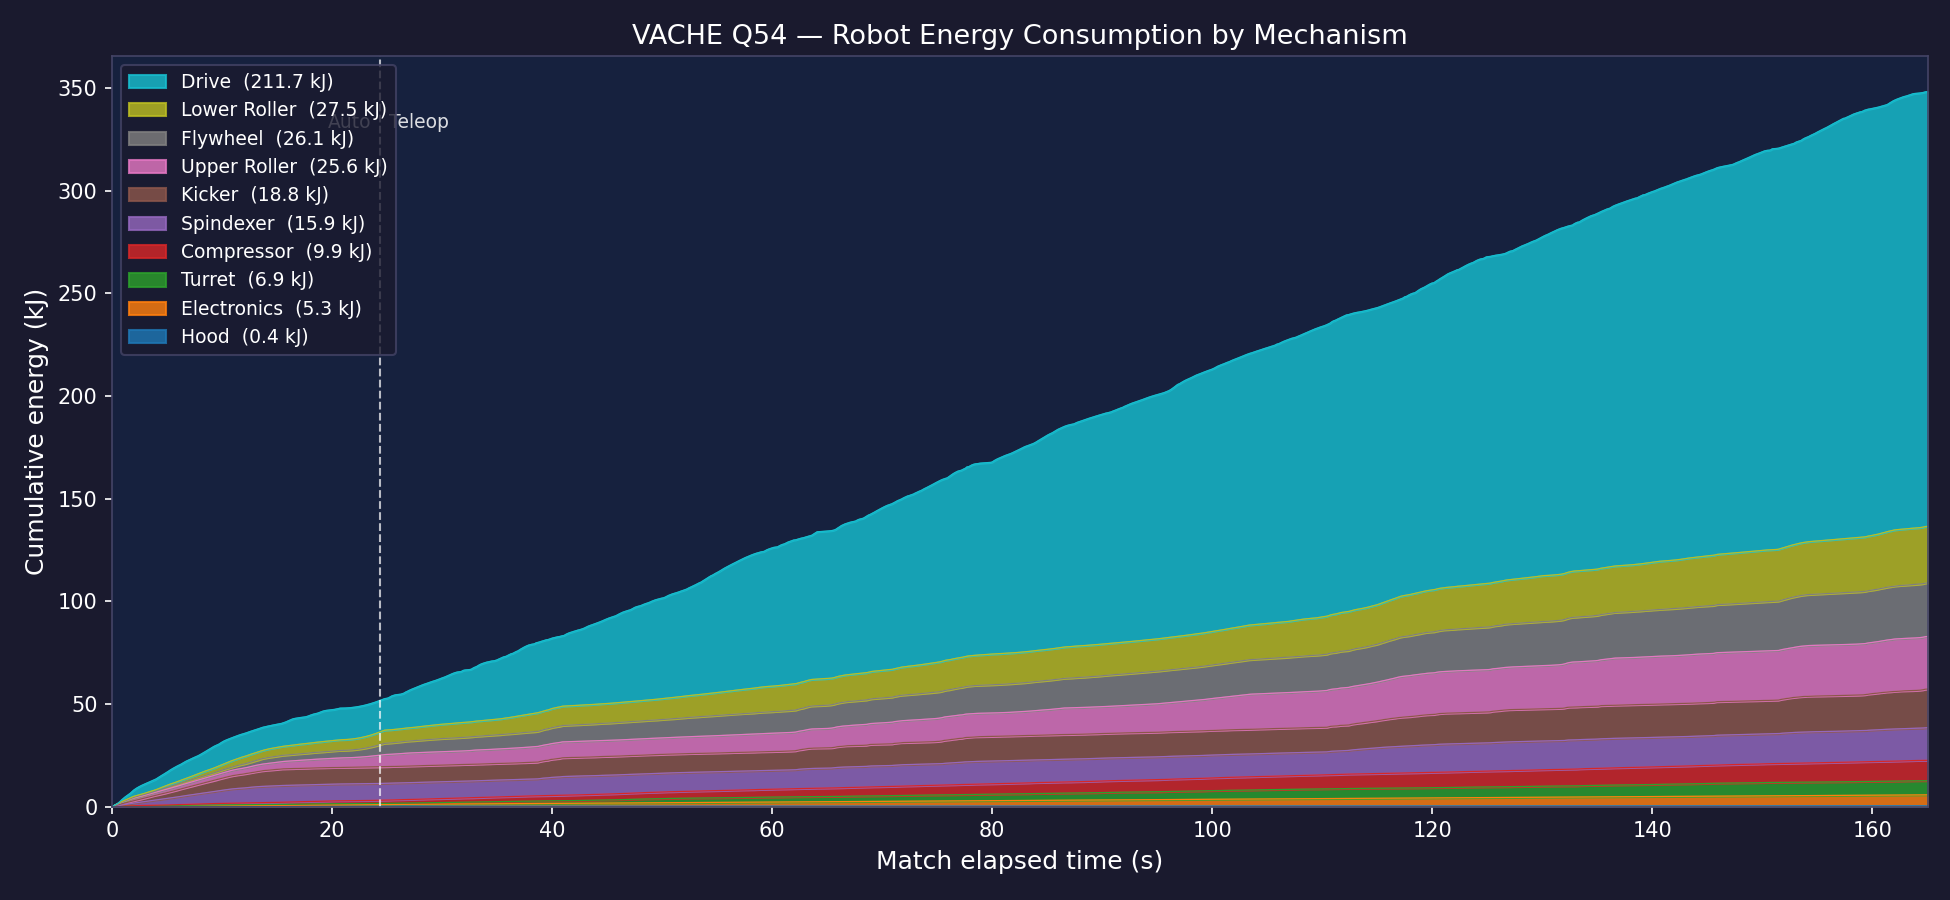
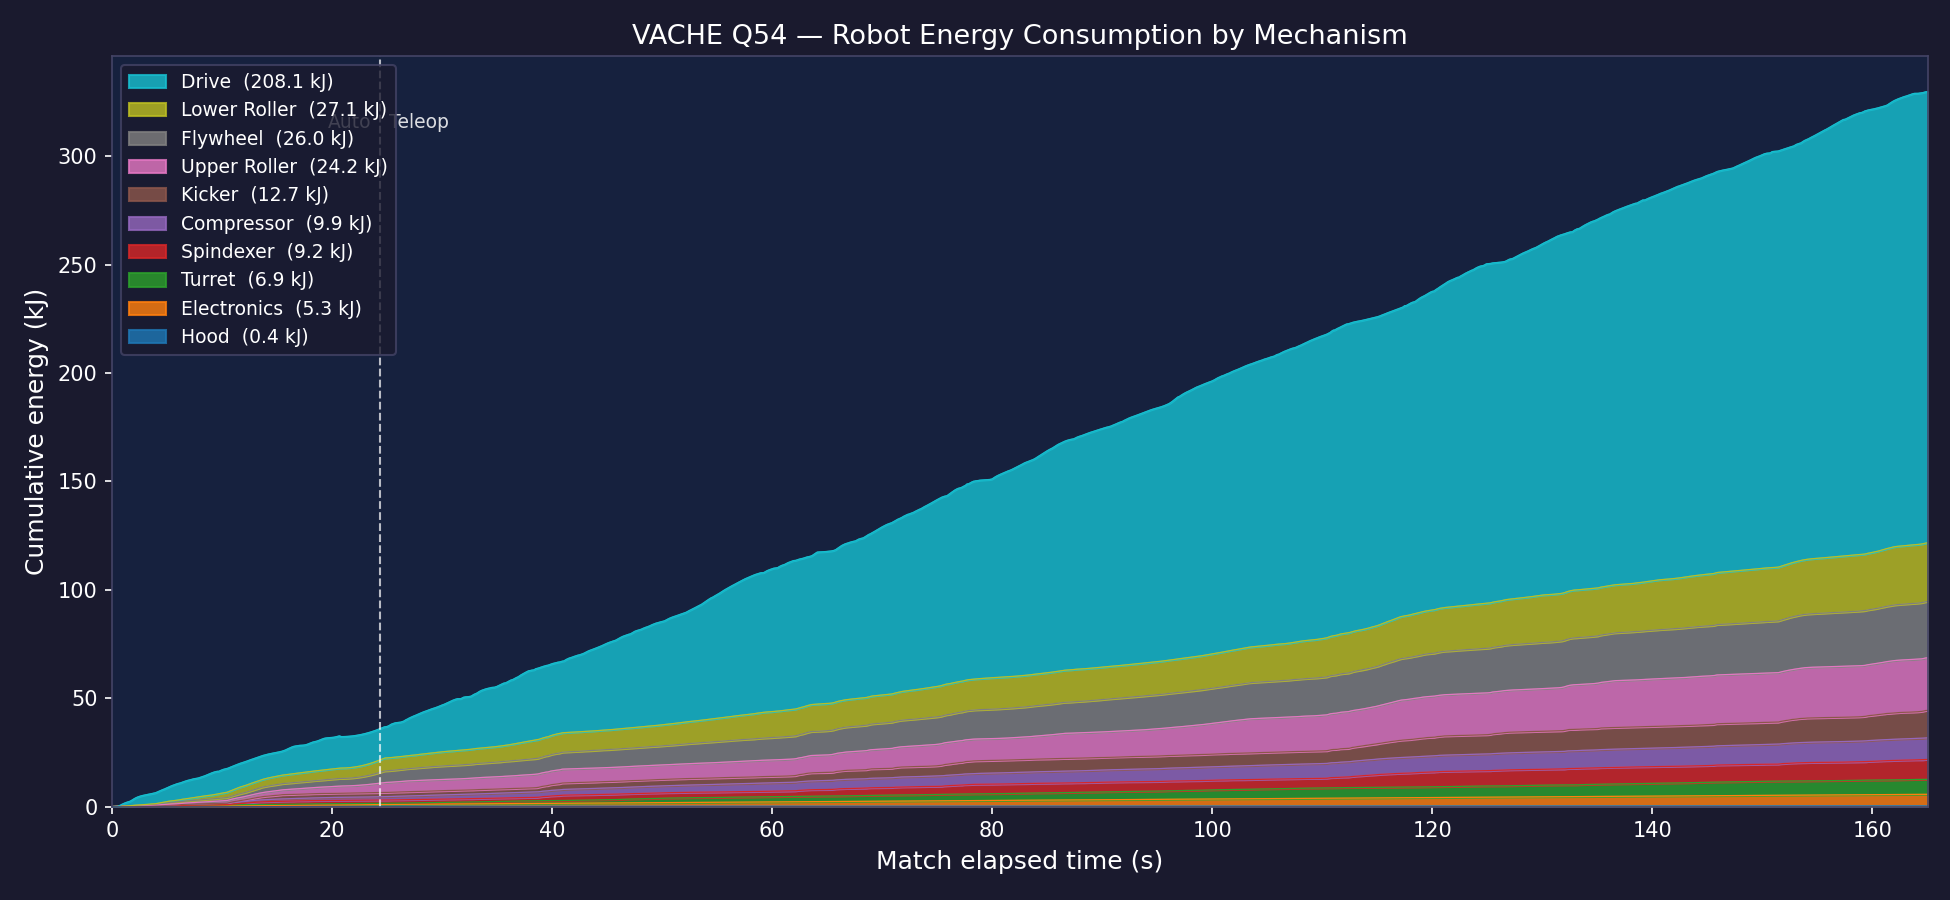
Fix energy analysis: AKit delta-log overcounting and Kraken regen (#175)
* fix energy analysis overcounting idle motors due to AKit delta logging

interp_entry used left=vs[0] extrapolation, which holds the first logged
current value backwards in time. For motors that are idle at exactly 0 A
(spindexer, kicker pre-shoot), no log entries exist until the motor fires —
so the first in-window sample was mid-shoot (~60 A), falsely inflating energy
for the entire pre-activation window.

Fix: after interpolation, zero out current values before the first actual
logged timestamp within the match analysis window. Affects process_match()
in energy_analysis.py and the standalone energy_feeder_auto_q54.py script.

Corrected values (avg across 14 matches):
  Kicker:    22.4 -> 16.7 kJ
  Spindexer: 19.0 -> 11.9 kJ
  Total:    326.1 -> 311.5 kJ

Also adds energy_feeder_auto_q54.py — focused spindexer+kicker auto-only
plot for Q54, and updates writeup tables and observations accordingly.

* account for Kraken regenerative braking in energy analysis

Remove supply current floor (np.maximum(..., 0)) for Kraken-powered
mechanism groups (Drive, Flywheel, Lower Roller, Upper Roller).
TalonFX/Phoenix 6 reports negative supply current during regen;
clamping it to zero was silently discarding ~3.2–3.6 kJ of recovery
per match (~1.8% of drive energy).

Add KRAKEN_GROUPS constant to control which groups integrate without
clamping. Non-Kraken groups (Spindexer, Kicker, Turret, Hood,
Compressor) and PDH-sourced Electronics keep clamp=True since their
[…]

diff --git a/scripts/energy_feeder_auto_q54.py b/scripts/energy_feeder_auto_q54.py
@@ -1,0 +1,113 @@
+#!/usr/bin/env python3
+"""
+Spindexer + Kicker cumulative energy — VACHE Q54 autonomous only.
+Reuses read_log / cumulative_energy_J from energy_analysis.py.
+"""
+
+import sys
+from pathlib import Path
+
+sys.path.insert(0, str(Path(__file__).parent))
+from energy_analysis import read_log, interp_entry, cumulative_energy_J
+
+import numpy as np
+import matplotlib.pyplot as plt
+import matplotlib.ticker as ticker
+
+LOG_PATH   = r"C:\Users\natel\wpilib\logs\VACHE\session_46\akit_26-03-22_14-57-55_vache_q54.wpilog"
+AUTO_START = 150.011873
+AUTO_END   = 174.650002   # autonomous end == teleop start
+
+GRID_DT   = 0.02
+VOLTAGE_ENTRY = "/RealOutputs/PDH/Voltage"
+NOMINAL_V     = 12.0
+
+MECHANISMS = {
+    "Spindexer": "/Spindexer/CurrentAmps",
+    "Kicker":    "/Kicker/CurrentAmps",
+}
+
+COLORS = {"Spindexer": "#4e9af1", "Kicker": "#f1884e"}
+
+
+def main():
+    scalars, _ = read_log(LOG_PATH)
+
+    t_abs = np.arange(AUTO_START, AUTO_END + GRID_DT, GRID_DT)
+    t_elapsed = t_abs - AUTO_START                  # 0 → ~24.6 s
+
+    voltage = interp_entry(scalars, VOLTAGE_ENTRY, t_abs)
+    if voltage.max() < 1.0:
+        voltage = np.full_like(t_abs, NOMINAL_V)
+
+    energies = {}
+    for name, entry in MECHANISMS.items():
+        current = interp_entry(scalars, entry, t_abs)
+        # AKit delta-logs current only on value change. Motors idle at exactly 0 A
+        # produce no log entries, so the first sample in our window is non-zero
+        # (mid-shoot). interp_entry extrapolates that value back to t=0, falsely
+        # accumulating energy during the pre-shoot idle window.
+        # Fix: find the first timestamp *within this analysis window* and zero out
+        # everything before it.
+        if entry in scalars:
+            ts_all = scalars[entry][0]
+            in_window = ts_all[(ts_all >= AUTO_START - 1.0) & (ts_all <= AUTO_END + 1.0)]
+            if len(in_window) > 0:
+                current[t_abs < in_window[0]] = 0.0
+        energies[name] = cumulative_energy_J(t_abs, current, voltage, clamp=True) / 1000.0   # → kJ
+
+    # ── print summary ──────────────────────────────────────────────────────────
+    print("\nQ54 autonomous energy (spindexer + kicker):")
+    total = sum(e[-1] for e in energies.values())
+    for name, e in energies.items():
+        print(f"  {name:12s}  {e[-1]:.2f} kJ  ({100*e[-1]/total:.1f}%)")
+    print(f"  {'TOTAL':12s}  {total:.2f} kJ")
+
+    # ── plot ───────────────────────────────────────────────────────────────────
+    fig, ax = plt.subplots(figsize=(10, 5))
+    fig.patch.set_facecolor("#1a1a2e")
+    ax.set_facecolor("#16213e")
+
+    stack = np.zeros_like(t_elapsed)
+    for name in ["Spindexer", "Kicker"]:
+        top = stack + energies[name]
+        lbl = f"{name}  ({energies[name][-1]:.2f} kJ)"
+        ax.fill_between(t_elapsed, stack, top, color=COLORS[name], alpha=0.82, label=lbl)
+        ax.plot(t_elapsed, top, color=COLORS[name], linewidth=0.7)
+        stack = top
+
+    # annotate shoot window (feeder command starts at 160.321 s)
+    shoot_start = 160.321481 - AUTO_START   # ≈ 10.3 s elapsed
+    shoot_end   = 165.5      - AUTO_START   # ≈ 15.5 s elapsed (current drops to idle)
+    ax.axvspan(shoot_start, shoot_end, color="white", alpha=0.07, label="Shoot window")
+    ax.axvline(shoot_start, color="white", linestyle="--", linewidth=0.9, alpha=0.6)
+    ax.axvline(shoot_end,   color="white", linestyle="--", linewidth=0.9, alpha=0.6)
+    y_top = stack[-1]
+    ax.text(shoot_start + 0.2, y_top * 0.92, "shoot\nwindow",
+            color="white", fontsize=8, va="top", alpha=0.75)
+
+    ax.set_xlabel("Autonomous elapsed time (s)", color="white", fontsize=12)
+    ax.set_ylabel("Cumulative energy (kJ)",      color="white", fontsize=12)
+    ax.set_title("VACHE Q54 — Spindexer + Kicker Energy (Autonomous only)",
+                 color="white", fontsize=13)
+    ax.tick_params(colors="white")
+    ax.set_xlim(0, t_elapsed[-1])
+    ax.set_ylim(bottom=0)
+    for spine in ax.spines.values():
+        spine.set_edgecolor("#444466")
+    ax.yaxis.set_major_formatter(ticker.FuncFormatter(lambda x, _: f"{x:.2f}"))
+
+    handles, labels = ax.get_legend_handles_labels()
+    ax.legend(handles[::-1], labels[::-1], loc="upper left", fontsize=10,
+              facecolor="#1a1a2e", edgecolor="#444466", labelcolor="white")
+
+    plt.tight_layout()
+    out = Path(__file__).parent.parent / "doc" / "assets" / "energy_feeder_auto_q54.png"
+    out.parent.mkdir(parents=True, exist_ok=True)
+    plt.savefig(out, dpi=150, facecolor=fig.get_facecolor())
+    print(f"\nSaved -> {out}")
+    plt.show()
+
+
+if __name__ == "__main__":
+    main()

diff --git a/scripts/energy_analysis.py b/scripts/energy_analysis.py
@@ -98,6 +98,11 @@ MECHANISM_GROUPS = {
     "Electronics": [],  # OrangePis/LEDs + RIO/radio/CANivore/coprocessors — sourced from PDH channels
 }
 
+# Mechanisms using Krakens (TalonFX/Phoenix 6) whose supply current can go
+# negative during regenerative braking.  Energy is integrated without clamping
+# for these groups so regen recovery reduces the net energy total.
+KRAKEN_GROUPS = {"Drive", "Flywheel", "Lower Roller", "Upper Roller"}
+
 # ---------------------------------------------------------------------------
 # Log reader
 
@@ -193,10 +198,15 @@ def interp_entry(
 
 
 def cumulative_energy_J(
-    t_abs: np.ndarray, current: np.ndarray, voltage: np.ndarray
+    t_abs: np.ndarray, current: np.ndarray, voltage: np.ndarray,
+    clamp: bool = False,
 ) -> np.ndarray:
-    """Trapezoid-integrate P=V*I; supply current clamped >=0. Returns J array."""
-    power = np.maximum(current, 0.0) * voltage
+    """Trapezoid-integrate P=V*I. Returns J array.
+    clamp=True: floor supply current at 0 (use for non-regen sources like PDH channels).
+    clamp=False (default): allow negative current so regen braking reduces net energy.
+    """
+    i = np.maximum(current, 0.0) if clamp else current
+    power = i * voltage
     dE    = 0.5 * (power[:-1] + power[1:]) * np.diff(t_abs)
     return np.concatenate([[0.0], np.cumsum(dE)])
 
@@ -221,8 +231,8 @@ def process_match(
 
     match_duration = match_end - auto_start   # seconds
 
-    def to_common(current: np.ndarray) -> np.ndarray:
-        energy_kJ = cumulative_energy_J(t_abs, current, voltage) / 1000.0
+    def to_common(current: np.ndarray, clamp: bool = False) -> np.ndarray:
+        energy_kJ = cumulative_energy_J(t_abs, current, voltage, clamp=clamp) / 1000.0
         t_elapsed  = np.linspace(0.0, match_duration, len(t_abs))
         return np.interp(COMMON_GRID, t_elapsed, energy_kJ,
                          left=0.0, right=energy_kJ[-1])
@@ -239,9 +249,21 @@ def process_match(
         found = False
         for entry in entries:
             if entry in scalars:
-                total_current += interp_entry(scalars, entry, t_abs)
+                current = interp_entry(scalars, entry, t_abs)
+                # AKit delta-logs current only on value change. Motors idle at
+                # exactly 0 A produce no log entries, so the first sample in
+                # our window may be non-zero (e.g. mid-shoot for spindexer/
+                # kicker). interp_entry extrapolates that value back to t=0,
+                # falsely accumulating energy. Zero out everything before the
+                # first actual logged timestamp within this match window.
+                ts_all = scalars[entry][0]
+                in_window = ts_all[(ts_all >= auto_start - 1.0) & (ts_all <= match_end + 1.0)]
+                if len(in_window) > 0:
+                    current[t_abs < in_window[0]] = 0.0
+                total_current += current
                 found = True
-        result[group] = to_common(total_current) if found else np.zeros_like(COMMON_GRID)
+        clamp = group not in KRAKEN_GROUPS
+        result[group] = to_common(total_current, clamp=clamp) if found else np.zeros_like(COMMON_GRID)
 
     # PDH-sourced overhead group (climber + RIO/radio/coprocessors/LEDs)
     electronics_i = extract_pdh_channel(arrays, PDH_ELECTRONICS_CHANNELS, t_abs)

diff --git a/doc/energy_analysis_writeup.md b/doc/energy_analysis_writeup.md
@@ -14,16 +14,17 @@ exist for those loads.
 
 | Mechanism | Energy | Share |
 |-----------|-------:|------:|
-| Drive | 211.7 kJ | 61.7% |
-| Lower Roller | 27.5 kJ | 8.0% |
-| Flywheel | 26.1 kJ | 7.6% |
-| Upper Roller | 25.6 kJ | 7.5% |
-| Kicker | 18.8 kJ | 5.5% |
-| Spindexer | 15.9 kJ | 4.6% |
-| Compressor | 9.9 kJ | 2.9% |
-| Turret | 6.9 kJ | 2.0% |
+| Drive | 208.1 kJ | 63.1% |
+| Lower Roller | 27.1 kJ | 8.2% |
+| Flywheel | 26.0 kJ | 7.9% |
+| Upper Roller | 24.2 kJ | 7.3% |
+| Kicker | 12.7 kJ | 3.8% |
+| Compressor | 9.9 kJ | 3.0% |
+| Spindexer | 9.2 kJ | 2.8% |
+| Turret | 6.9 kJ | 2.1% |
+| Electronics | 5.3 kJ | 1.6% |
 | Hood | 0.4 kJ | 0.1% |
-| **Total** | **342.8 kJ** | |
+| **Total** | **329.7 kJ** | |
 
 Q54 was a high-energy match — drive consumption was notably higher than the
 event average, consistent with aggressive teleop movement.
@@ -39,35 +40,37 @@ autonomous enable; curves averaged on a common 165 s grid.
 
 | Mechanism | Avg Energy | Share |
 |-----------|----------:|------:|
-| Drive | 180.6 kJ | 55.4% |
-| Flywheel | 30.4 kJ | 9.3% |
-| Lower Roller | 26.9 kJ | 8.3% |
-| Upper Roller | 24.3 kJ | 7.4% |
-| Kicker | 22.4 kJ | 6.9% |
-| Spindexer | 19.0 kJ | 5.8% |
-| Compressor | 10.1 kJ | 3.1% |
-| Turret | 6.5 kJ | 2.0% |
-| Electronics | 5.2 kJ | 1.6% |
+| Drive | 177.4 kJ | 57.6% |
+| Flywheel | 30.2 kJ | 9.8% |
+| Lower Roller | 26.2 kJ | 8.5% |
+| Upper Roller | 23.6 kJ | 7.7% |
+| Kicker | 16.7 kJ | 5.4% |
+| Spindexer | 11.9 kJ | 3.9% |
+| Compressor | 10.1 kJ | 3.3% |
+| Turret | 6.4 kJ | 2.1% |
+| Electronics | 5.2 kJ | 1.7% |
 | Hood | 0.5 kJ | 0.2% |
-| **Total** | **326.1 kJ** | |
+| **Total** | **308.1 kJ** | |
 
 ---
 
 ## Key Observations
 
-**Drive dominates.** At 55–62% of total energy, the drivetrain is by far the
+**Drive dominates.** At 57–63% of total energy, the drivetrain is by far the
 largest consumer. All growth is approximately linear, indicating sustained
-driving throughout both auto and teleop with no extended idle periods.
+driving throughout both auto and teleop with no extended idle periods. Kraken
+regenerative braking recovers ~3.2–3.6 kJ per match (~1.8% of drive energy),
+reducing net drive consumption slightly relative to gross current draw.
 
 **Shooter system is the second-largest group.** Flywheel + rollers (Lower/Upper)
-+ Kicker + Spindexer collectively consume ~113 kJ on average (35%), nearly all
++ Kicker + Spindexer collectively consume ~109 kJ on average (35%), nearly all
 of which is teleop — the bands for these mechanisms steepen noticeably after the
 auto/teleop boundary as the shooter spins up and cycles continuously.
 
 **Compressor is non-trivial.** At ~10 kJ (3%), the compressor ranks above the
 turret. The pneumatic system runs throughout the match to maintain pressure.
 
-**Electronics overhead (5.2 kJ, 1.6%)** covers OrangePis, LEDs, RIO, radio,
+**Electronics overhead (5.2 kJ, 1.7%)** covers OrangePis, LEDs, RIO, radio,
 CANivore, and coprocessors. The ~1.5 A constant draw on PDH channels 14–15
 (OrangePis/LEDs) accounts for roughly 60% of this group, with the remainder
 split across channels 20–22 (RIO, radio, CANivore/coprocessors).
